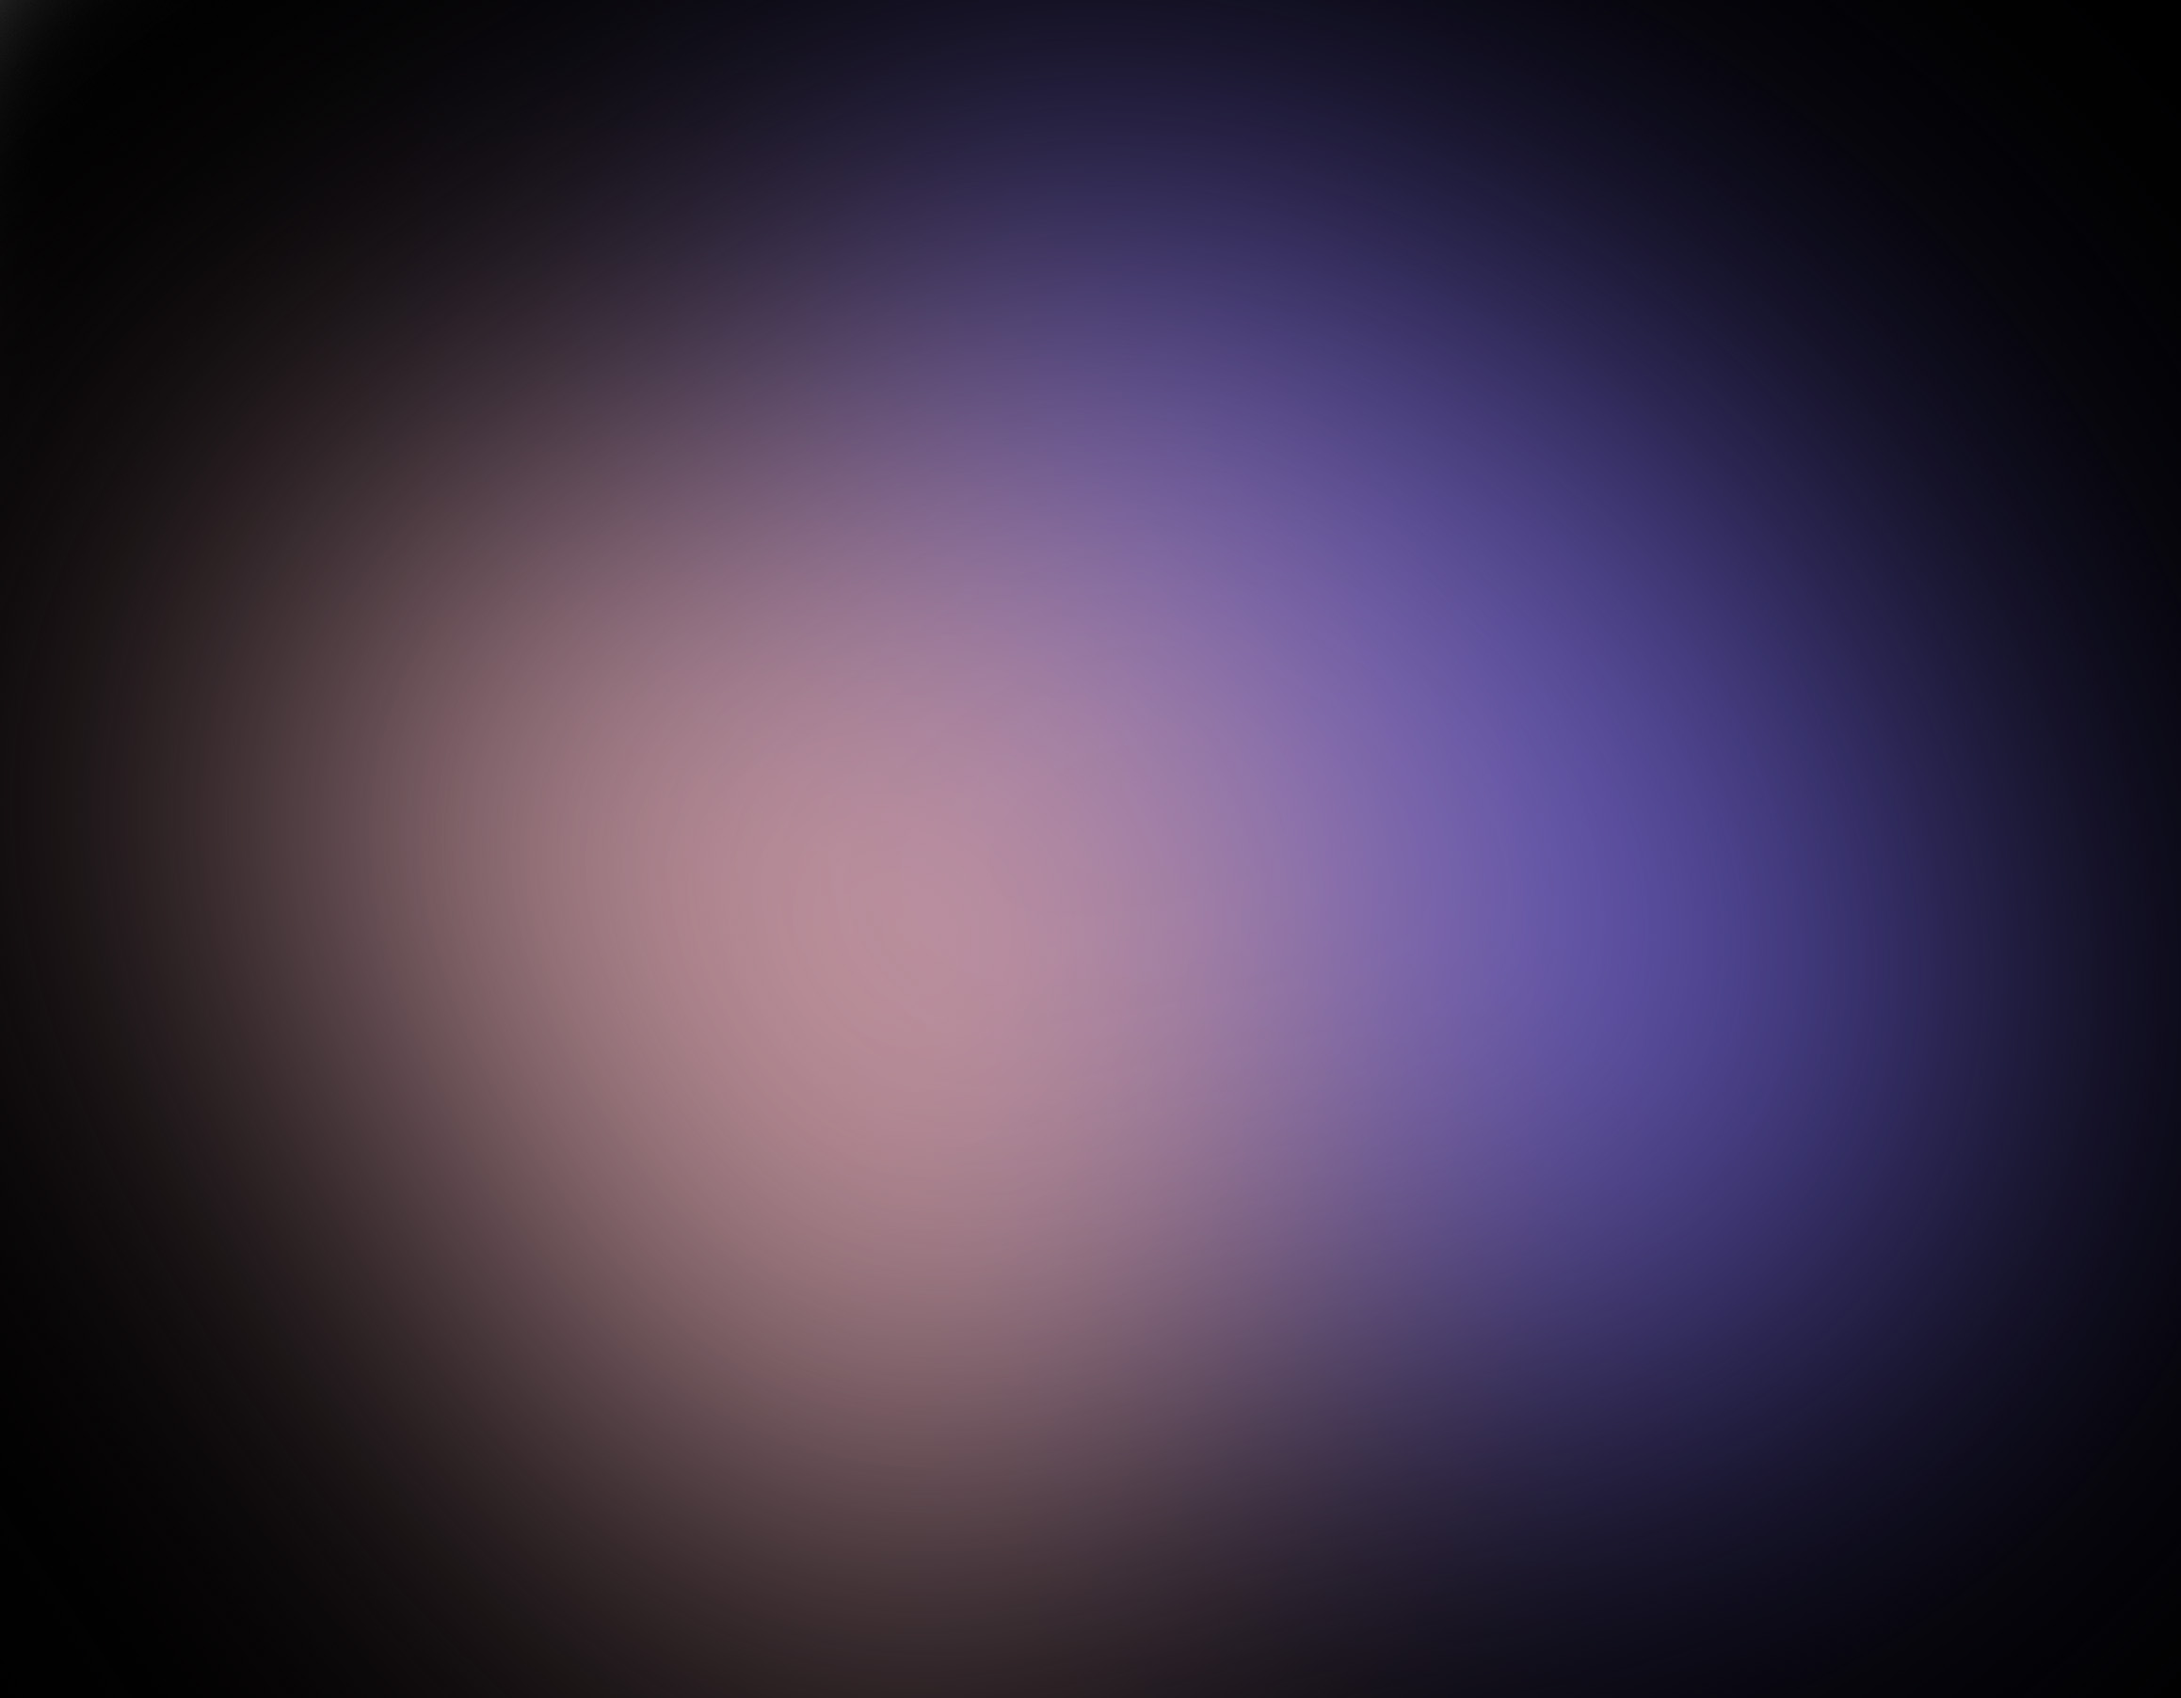
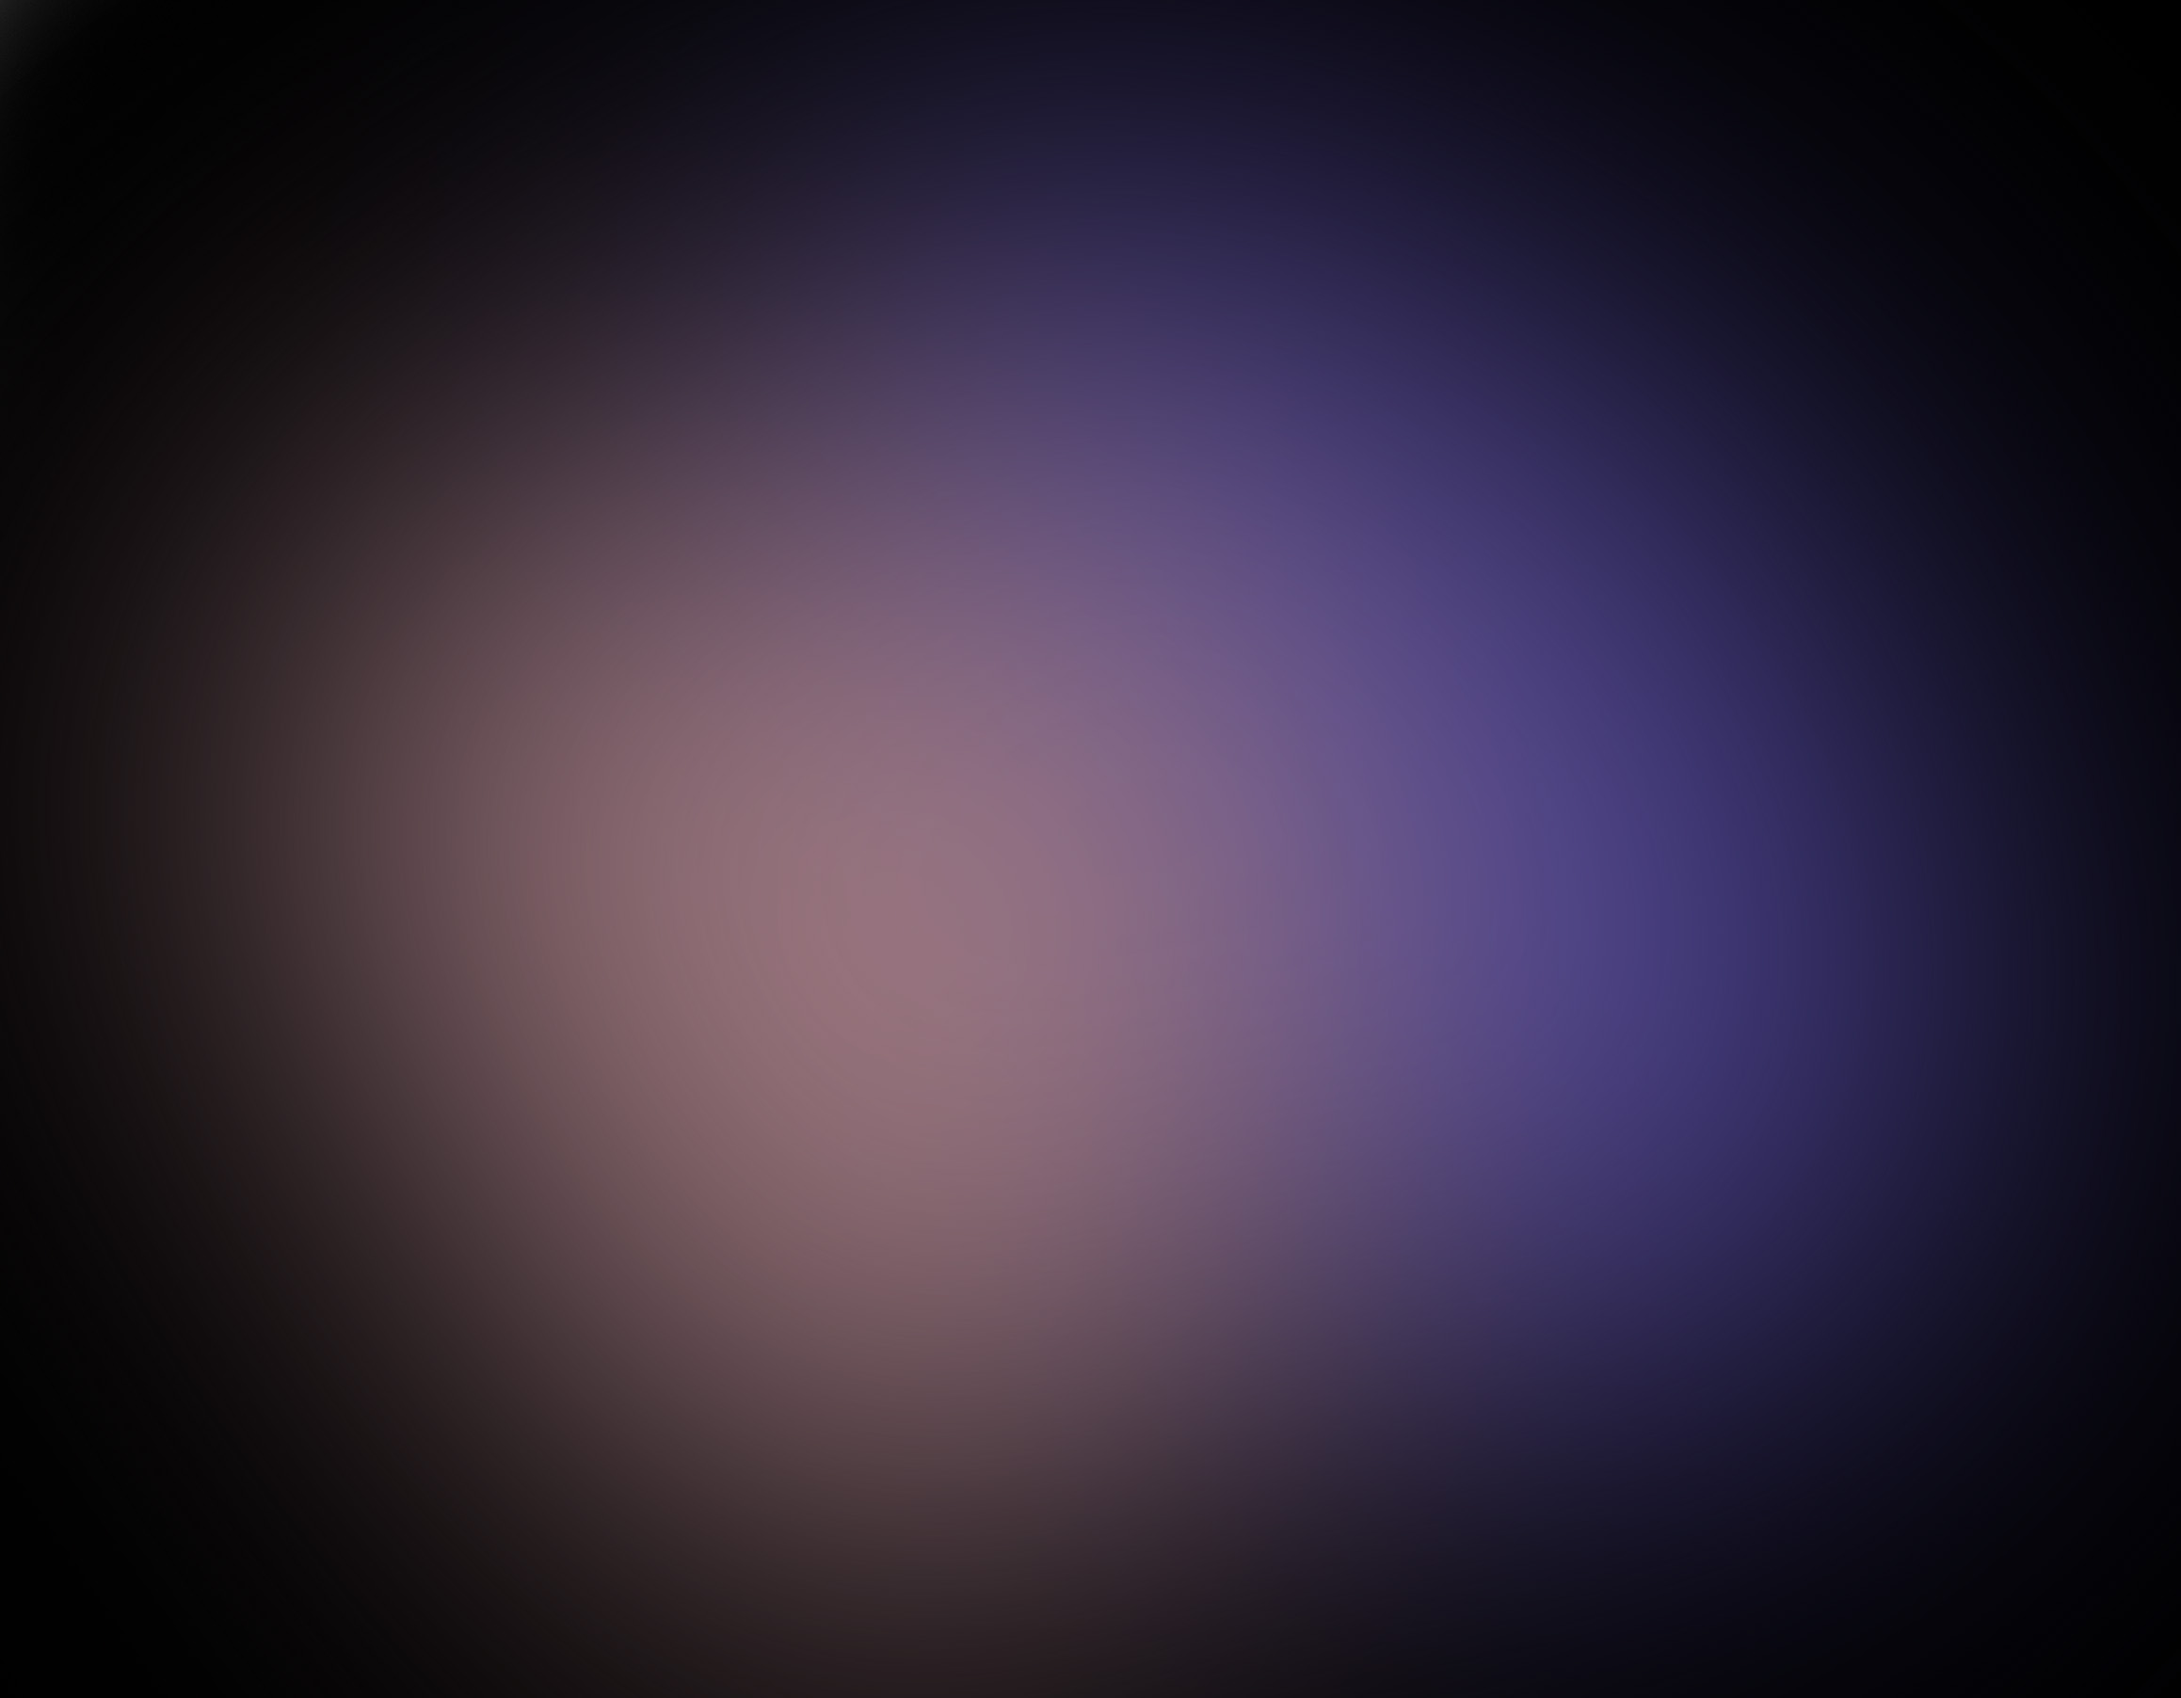
seo

Changed region(s): [[0.1864, 0.1863, 0.839, 0.8381]]

diff --git a/src/app/layout.tsx b/src/app/layout.tsx
@@ -10,6 +10,11 @@ const inter = Inter({ subsets: ["latin"] });
 export const metadata: Metadata = {
   title: "Главная",
   description: "Главная",
+  openGraph : {
+    type : "website",
+    title : "illumedWeb",
+    description : "Команда экспертов в разработке сайтов и мобильных приложений."
+  }
 };
 
 export default function RootLayout({
@@ -18,10 +23,10 @@ export default function RootLayout({
   children: React.ReactNode;
 }>) {
   return (
-    <html lang="en">
+    <html lang="ru" >
       <body className={`${inter.className}`}>
         <Providers>
-          <div className="py-[40px] bg-[url('/bgmain.png')] transition-all bg-cover min-h-screen dark:bg-[url('/bgmain-dark.webp')]">
+          <div className="py-[40px] bg-[url('/bgmain.png')] transition-all bg-cover min-h-screen dark:bg-[url('/bgmain-dark.jpg')]">
             <div className="max-w-[1100px] mx-auto">
               <Header />
               <div className="mt-[80px] max-[639px]:mx-[20px]">{children}</div>
